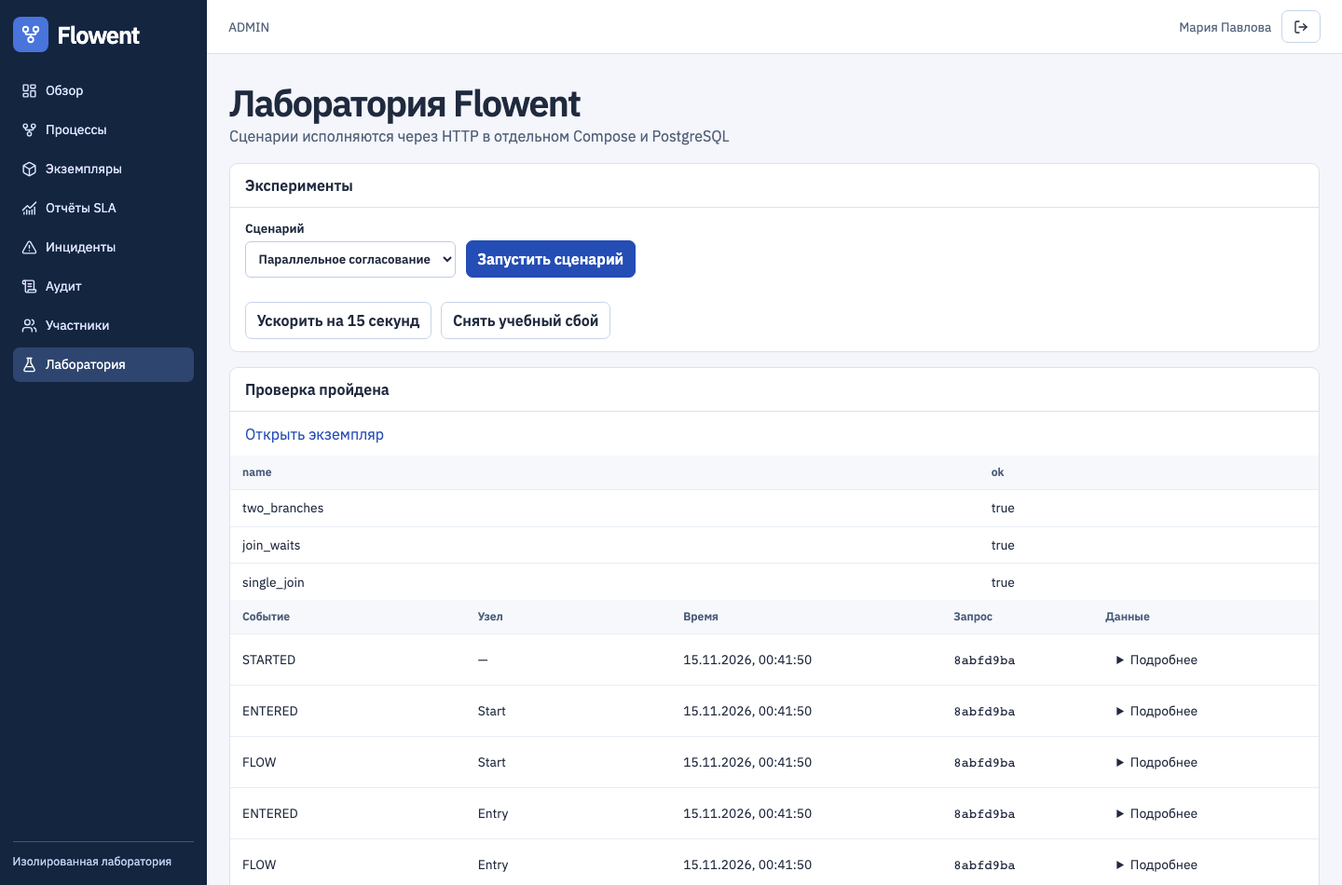
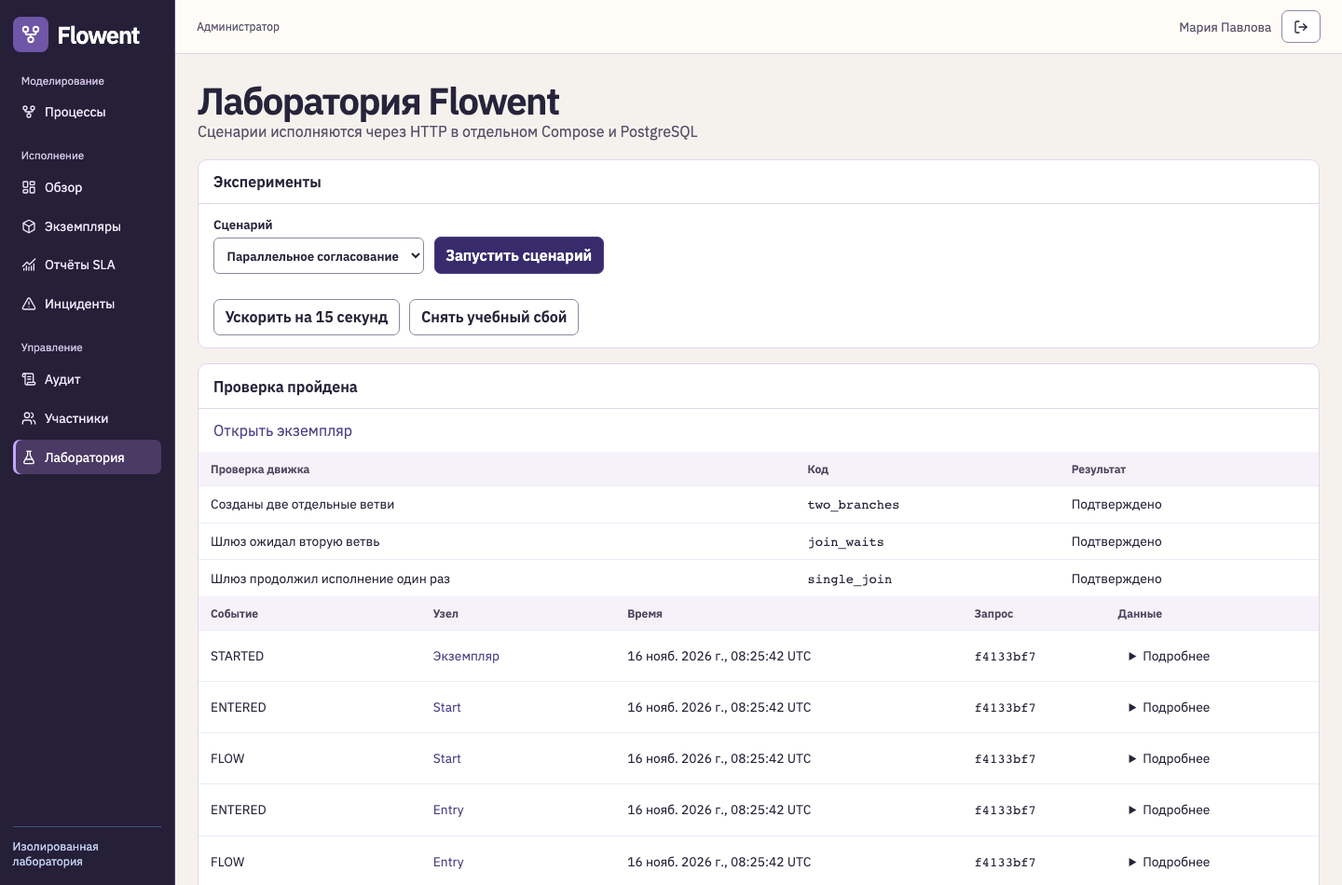
docs: publish Flowent workbench screenshots and acceptance evidence

diff --git a/docs/ux-ui-redesign.md b/docs/ux-ui-redesign.md
@@ -22,3 +22,96 @@
 | F-14 · Lab и аудит | Объяснение сценария, доступ к технической трассе | 14 сценариев, AC-17/22 |
 | F-15 · обновление | Отдельный жизненный цикл BPMN и маркеров | Сохранение viewport и проверка сети, AC-21 |
 | F-16 · терминология | Предметные подписи, доступ к исходным кодам | Визуальная проверка и аналитика |
+
+## Дизайн-система
+
+- Левый тёмный rail отделяет моделирование, исполнение и управление. На узком экране те же разделы доступны через кнопку с `aria-expanded`. Светлые поверхности и границы выстраивают приоритет формы, схемы и истории. IBM Plex Sans поддерживает кириллицу и табличные данные. Идентификаторы выделены моноширинным шрифтом и переносятся внутри доступной ширины.
+- В моделировании главное действие зависит от состояния черновика и роли. Компактные команды управления схемой отделены от сохранения и публикации. Инспектор показывает BPMN ID, тип и настройки исполнения. Управление XML и конфигурацией доступно отдельно.
+- Монитор показывает опубликованную модель, этап ожидания и контекст исполнения перед подробной хронологией. Маркеры состояния продублированы текстом. Поиск, сортировка и страницы основных реестров используют URL. Выбор BPMN-элемента доступен с клавиатуры. `prefers-reduced-motion` отключает декоративные переходы.
+
+## Модель исполнения
+
+Монитор получает XML опубликованной версии по `instance.version` через доступ к самому экземпляру. Публикация новых версий не меняет существующие связи. UUID версии и номер показаны отдельно. Для управленческих ролей переход из опубликованной версии открывает экземпляры именно этой версии.
+
+Для JOIN клиент использует записанную движком активацию `FORKED` и идентификатор кадра из стека токенов. Ожидание одной активации отделено от других. Если фактических данных недостаточно, интерфейс сообщает это. BPMN-таймер показывает параметры модели, план `due_at` и событие срабатывания. Сроки экземпляра и задач показаны отдельно, время подписано UTC. Остаток времени вычисляется по серверным часам стенда и учитывает лабораторный сдвиг.
+
+Постановка сервисной задачи в очередь отображается отдельно от завершённого восстановления. История связывает новый `SERVICE_DONE` с конкретным `job`. Для старых событий, записанных до добавления идентификатора, интерфейс может показать статус задания без точной даты подтверждения. Движок и миграции существующей схемы сохранены, история дополняется метаданными.
+
+## Ограничения
+
+- На телефоне визуальное редактирование канвы выключено. Схема поддерживает инспекцию, текстовый выбор шага, масштаб и команды возврата к полному виду. Пространственное редактирование всем набором инструментов bpmn-js не покрыто клавиатурой.
+- Название элемента можно изменить в инспекторе. Исполняемые формы, маршрутизация, присвоения и таймеры редактируются в существующем режиме XML. Новые типы процессов и условия выполнения выходят за границы поддерживаемого BPMN-подмножества.
+- Результаты Chromium описывают конкретные проверенные маршруты. Полное соответствие WCAG требует отдельной проверки скринридеров, увеличения и независимого браузерного движка.
+
+## Приёмка аудита
+
+Сценарии Chromium используют отдельные демонстрационные БД. В матрице «частично» означает, что существенный путь проверен, а часть комбинаций или средств ввода остаётся за пределами прогона.
+
+| Критерий | Статус | Проверка и границы |
+| --- | --- | --- |
+| AC-01 · Геометрия редактора | Проверено | Тест вычисляет зазоры между геометрией BPMN, палитрой и границами canvas. На 1440 и 1600 px порог 12 px. |
+| AC-02 · Свойства элемента | Частично | Выбор `Solo` из списка и через canvas, изменение имени и ID. Настройки группы, полей и срока извлекаются из BPMN. Для всех видов фигур на 768 px нет отдельного теста. |
+| AC-03 · Актуальность проверки | Проверено | Изменение ID отменяет успех. API отклоняет несовпадающий SHA-256, устаревшую редакцию и синтаксически или семантически недопустимую модель. |
+| AC-04 · Диагностика | Частично | Ошибка неподдерживаемой фигуры проверена через API. Для отсутствующего `Solo` Enter переводит фокус к исходнику. Полная браузерная матрица диагностик XSD и таймеров не пройдена. |
+| AC-05 · XML и черновик | Частично | Реальный Export → Import → Save → Validate → Publish → Execute и защита Back/выхода. Автоматический структурный diff координат для произвольного перемещения не добавлен. |
+| AC-06 · Публикация и история | Проверено | HTTP проверяет роли и редакции. Исторический URL показывает исходный XML. PostgreSQL запрещает изменение опубликованной записи. |
+| AC-07 · Список экземпляров | Проверено | HTTP 200 для нескольких разрешённых выборок и 404 для чужого экземпляра. В браузере запуск создаёт запись и открывает монитор. |
+| AC-08 · Закреплённый BPMN | Проверено | Реальные экземпляры используют старую и новую версии соответственно. Из монитора открывается точный XML, из просмотра версии доступна отфильтрованная выборка. |
+| AC-09 · Параллельные задачи | Проверено | HTTP и браузер видят реальные `Lead` и `Second`. Название, роль, срок, статус и ID берутся из записи задачи. |
+| AC-10 · Выполнение задачи | Частично | Claim, форма, завершение, повтор с тем же ключом и конфликт с новым ключом. Сценарий потери ответа с последующим повтором из двух открытых вкладок не выполнялся. |
+| AC-11 · Split | Проверено | Последовательный и конкурентный HTTP-проходы, ровно один `JOINED`. |
+| AC-12 · Ожидание JOIN | Частично | Chromium сверяет одну из двух ветвей и переход к завершённой синхронизации. Вложенные параллельные активации отдельно в браузере не запускались. |
+| AC-13 · Таймер | Проверено | Живой Timer Catch, `due_at`, `TIMER_FIRED` и сохранность при перезапуске. |
+| AC-14 · SLA и зона | Частично | Лабораторная просрочка, отдельные сроки задачи и экземпляра, UTC. Агрегаты отчёта не пересчитывались независимо по SQL для всех состояний. |
+| AC-15 · Инцидент | Частично | Блокировка и две предшествующие попытки, код, узел, версия и история. Ограничение retry защищено ролью ADMIN, отдельный визуальный проход менеджера не записан. |
+| AC-16 · Восстановление | Частично | Остановка worker подтверждает QUEUED без подтверждения, запуск worker подтверждает RECOVERED. Возврат в повторный отказ при сохраняющемся сбое не пройден отдельным браузерным сценарием. |
+| AC-17 · Хронология | Частично | Событие ведёт к BPMN-узлу, полный Request ID и Actor ID доступны внутри детали. Имена ролей для отдельных исторических действий не денормализованы. |
+| AC-18 · Reflow | Проверено для Chromium | Список шагов, режим просмотра и отсутствие горизонтальной прокрутки документа для проверенных экранов на 1440, 768, 390 и 320 CSS px. |
+| AC-19 · Клавиатура | Частично | Диагностика, Tab/Enter, Escape, выбор шага, возврат по навигации проверены в Chromium. Пространственное редактирование и второй браузерный движок не входили в прогон. |
+| AC-20 · WCAG 2.2 AA | Частично | Семантика, видимый фокус, доступные имена, узкий viewport и reduced motion. Полной ручной проверки VoiceOver, 200% zoom и всех состояний не проводилось. |
+| AC-21 · Регрессии | Проверено | Unit, HTTP и PostgreSQL, сохранность при перезапуске, Lab, сборка и Chromium. Стабильный XML монитора сохраняет экземпляр Viewer при изменении маркеров. |
+| AC-22 · Lab | Проверено | 14 реальных сценариев, серверный ACL, запросы и сверяемые технические результаты. |
+| AC-23 · Контекст ссылок | Частично | Фильтр реестра сохраняется в URL, переходы монитор → версия и журнал → экземпляр. Полная матрица ролей, Forward и повторного входа для каждого маршрута не прогнана. |
+| AC-24 · Состояния интерфейса | Частично | Воспроизведены загрузка, валидация, ревизионный конфликт и пустая выборка. HTTP 500 воспроизводился в исходном состоянии, в финальном браузерном проходе искусственно не внедрялся. |
+
+### Дополнительные критерии из задания
+
+| ID | Результат |
+| --- | --- |
+| A1 | Реестр отвечал HTTP 200, проверено через браузер и PostgreSQL. |
+| A2 | Изменение BPMN ID сбрасывает проверку, покрыто браузерным тестом. |
+| A3 | Запрос из Workbench привязан к SHA-256 черновика. Старый API валидирует точный XML внутри транзакции под блокировкой публикации. Невалидный XML и неверная редакция отклоняются. |
+| A4 | Переход, Browser Back и сохранение требуют решения пользователя. |
+| A5 | Экземпляр читает собственную `instance.version`, проверено HTTP и в Chromium. |
+| A6 | Исторический XML совпадает побайтно, UPDATE публикации запрещён PostgreSQL. |
+| A7 | Статусы монитора сверены с активными токенами и историей. |
+| A8 | Ожидание JOIN выводит незавершённую ветвь и реальную задачу, при недостатке данных показывает нейтральное объяснение. |
+| A9 | Контекст User Task показывает версию, экземпляр, BPMN-узел, назначение, приоритет, дедлайн и входные данные. |
+| A10 | BPMN Timer и SLA разделены в мониторе и тестах. |
+| A11 | Время подписано UTC, сравнение браузерных часовых зон приведено в отчёте проверки. |
+| A12 | QUEUED и RECOVERED проверяются с реальной остановкой worker. |
+| A13 | Все 14 Lab сценариев выполнены по HTTP с PostgreSQL. |
+| A14 | Режим просмотра и текстовый выбор шага работают на 390 и 320 px в Chromium. |
+| A15 | Основные действия проверены клавиатурой в Chromium, см. AC-19. |
+| A16 | BPMN-файлы моделей не менялись. Маршруты, таймеры, параллельное исполнение и роли повторно проверены. |
+| A17 | Команды и результаты проверок указаны ниже. |
+| A18 | Статус финальной сборки доступен в [GitHub Actions](https://github.com/bivaettttt/flowent/actions/workflows/quality.yml). |
+| A19 | Обновлены [README](../README.md), [русская](../README.ru.md) и [английская](../README.en.md) версии. |
+| A20 | Актуальные снимки собраны в [галерее](demo.md). |
+
+## Фактический прогон
+
+| Проверка | Результат |
+| --- | --- |
+| Ruff, Prettier, TypeScript/Vite, OpenAPI и ссылки проекта | Проверки завершились успешно. В сборке Vite остаётся предупреждение о директиве внутри зависимости bpmn-js. |
+| pytest | 15 из 15. |
+| PostgreSQL + HTTP | Прошли три BPMN-модели, параллельные и конкурентные действия, RBAC, идемпотентность, SLA, таймеры, восстановление и снимки версий. |
+| Flowent Lab | 14 из 14 по реальному HTTP и PostgreSQL. |
+| Перезапуск и восстановление | Отложенный таймер сработал один раз после перезапуска API и worker. Ручной retry остался QUEUED с остановленным worker, затем перешёл в RECOVERED с фактическим временем. |
+| Playwright Chromium | 7 из 7. Экспорт, импорт, публикация, исполнение, редактирование и навигация, JOIN, timer, SLA и история восстановления. |
+| Ручной браузерный проход | Playwright MCP на 1440, 768, 390 и 320 px. Отдельный Chromium smoke проверил 9 маршрутов на каждой ширине, 2 px видимого фокуса, клавиатурное раскрытие мобильного меню, reduced motion и отсутствие неожиданных ошибок консоли и HTTP. |
+| Часовые зоны | Chromium в UTC и Asia/Novosibirsk показал один и тот же явно обозначенный UTC timestamp. |
+| Эксплуатационная среда | Исходный Compose-стенд работал для браузерного аудита и первой визуальной проверки. При повторной локальной сборке Docker Desktop не уложился в health-check. Финальные локальные скриншоты и проверки получены на изолированном PostgreSQL 16 с теми же FastAPI и worker. Compose проверяется в GitHub Actions. |
+| Изображения | 27 реальных PNG. Основной снимок BPMN размером 1600 × 900, монитор 1440 × 1060, мобильный просмотр 390 px. |
+
+Источники проверок — [pytest](../tests), [HTTP и PostgreSQL](../scripts/verify.py), [14 лабораторных сценариев](../scripts/verify-lab.py), [остановка процессов и восстановление](../scripts/restart-check), [браузерный workflow](../frontend/e2e/flow.spec.ts) и [регрессии Workbench](../frontend/e2e/workbench.spec.ts).

diff --git a/docs/demo.md b/docs/demo.md
@@ -4,25 +4,42 @@
 
 Затем войдите под `analyst`. В «Процессах» экспортируйте модель расходов, импортируйте XML в новый черновик и измените название задачи на диаграмме. Сохраните и проверьте черновик. Под `manager` опубликуйте версию, под `employee` запустите экземпляр с суммой 12 000 ₽, затем под `approver` завершите согласование. В мониторе проверьте маршрут, таймер и вновь открывшуюся задачу. Вернитесь под `employee` и подтвердите расход. В [тесте Playwright](../frontend/e2e/flow.spec.ts) эти шаги выполняются через интерфейс.
 
-## Captures
+## Screenshots / Скриншоты
 
-![Corporate expense approval in the BPMN editor](../assets/screenshots/expense-editor.png)
+Chromium и реальные ответы изолированного демонстрационного стенда PostgreSQL. Цвета на схеме отражают текущее состояние зафиксированных токенов. Скриншот редактора в полном размере — 1600 × 900 px.
 
-![Execution monitor with an active review](../assets/screenshots/monitor.png)
+[![Редактор BPMN на примере корпоративных расходов](../assets/screenshots/expense-editor.png)](../assets/screenshots/expense-editor.png)
 
-| Экран | Снимок |
+[![Монитор исполнения с ожиданием входа в параллельный шлюз](../assets/screenshots/runtime-viewer.png)](../assets/screenshots/runtime-viewer.png)
+
+| Экран | Полный размер |
 | --- | --- |
-| Обзор рабочей области | [Dashboard](../assets/screenshots/dashboard.png) |
-| Реестр | [Process registry](../assets/screenshots/registry.png) |
-| Редактор | [BPMN designer](../assets/screenshots/expense-editor.png) |
-| Валидация | [Validation](../assets/screenshots/validation.png) |
-| Публикация и история версий | [Versions](../assets/screenshots/versions.png) |
-| Очередь задач | [Task inbox](../assets/screenshots/inbox.png) |
-| Карточка задачи | [Task details](../assets/screenshots/task-details.png) |
-| Динамическая форма | [Dynamic form](../assets/screenshots/task.png) |
-| Монитор исполнения | [Execution monitor](../assets/screenshots/monitor.png) |
-| Отчёт по срокам | [SLA reports](../assets/screenshots/reports.png) |
-| Инциденты | [Incident log](../assets/screenshots/incidents.png) |
-| Лаборатория | [Flowent Lab](../assets/screenshots/lab.png) |
+| Рабочая область моделирования | [PNG](../assets/screenshots/design-workspace.png) |
+| Редактор BPMN | [PNG](../assets/screenshots/expense-editor.png) |
+| Инспектор свойств BPMN | [PNG](../assets/screenshots/properties.png) |
+| Ошибка валидации | [PNG](../assets/screenshots/validation-error.png) |
+| Снимок опубликованной модели | [PNG](../assets/screenshots/published-model.png) |
+| Реестр моделей процессов | [PNG](../assets/screenshots/registry.png) |
+| Реестр экземпляров | [PNG](../assets/screenshots/instance-registry.png) |
+| Model-to-Execution Workbench · обзор разделов | [PNG](../assets/screenshots/dashboard.png) |
+| Runtime BPMN Viewer | [PNG](../assets/screenshots/runtime-viewer.png) |
+| Ожидание Parallel JOIN | [PNG](../assets/screenshots/join-wait.png) |
+| Активная пользовательская задача | [PNG](../assets/screenshots/active-task.png) |
+| Результат выполнения задачи | [PNG](../assets/screenshots/task-completion.png) |
+| Ожидание BPMN-таймера | [PNG](../assets/screenshots/timer-wait.png) |
+| Нарушение SLA | [PNG](../assets/screenshots/sla-breach.png) |
+| Карточка инцидента | [PNG](../assets/screenshots/incident-details.png) |
+| История восстановления | [PNG](../assets/screenshots/recovery-history.png) |
+| Переход из экземпляра к закреплённому XML | [PNG](../assets/screenshots/version-navigation.png) |
+| Мобильный просмотр экземпляра · 390 px | [PNG](../assets/screenshots/mobile-viewer.png) |
+| Flowent Lab | [PNG](../assets/screenshots/lab.png) |
+| Входящие задачи | [PNG](../assets/screenshots/inbox.png) |
+| Контекст задачи | [PNG](../assets/screenshots/task-details.png) |
+| Динамическая форма задачи | [PNG](../assets/screenshots/task.png) |
+| Успешная проверка BPMN | [PNG](../assets/screenshots/validation.png) |
+| История публикаций | [PNG](../assets/screenshots/versions.png) |
+| Монитор тестового согласования | [PNG](../assets/screenshots/monitor.png) |
+| Отчёты SLA | [PNG](../assets/screenshots/reports.png) |
+| Журнал инцидентов | [PNG](../assets/screenshots/incidents.png) |
 
-[Скачать запись реального исполнения](../assets/demo/flowent.mp4). Короткая запись Playwright объединяет прогон от редактирования до завершения экземпляра и проверку параллельного шлюза через Lab. Все кадры получены из локального окружения с синтетическими данными.
+[Скачать запись реального исполнения](../assets/demo/flowent.mp4). Запись относится к версии до редизайна. Она объединяет прогон от редактирования до завершения экземпляра и проверку параллельного шлюза через Lab. Все кадры получены из локального окружения с синтетическими данными.

diff --git a/README.ru.md b/README.ru.md
@@ -43,6 +43,14 @@ scripts/lab up
 
 [Полноразмерный скриншот](assets/screenshots/expense-editor.png)
 
+## Монитор исполнения
+
+Монитор связывает экземпляр с неизменяемой версией BPMN. По схеме и текстовому списку можно выбрать шаг, увидеть активные задачи, ожидание ветвей JOIN, график таймера и факт нарушения SLA. В деталях инцидента постановка повтора в очередь и подтверждённое восстановление показаны отдельными состояниями.
+
+[![Монитор Flowent с активной задачей и схемой исполнения](assets/screenshots/runtime-viewer.png)](assets/screenshots/runtime-viewer.png)
+
+[Галерея интерфейса](docs/demo.md) · [Редизайн и регрессии](docs/ux-ui-redesign.md)
+
 ## Архитектура и API
 
 React и bpmn-js работают с FastAPI через nginx. PostgreSQL хранит определения, версии, экземпляры, токены, задачи, квитанции команд и журнал событий. Отдельный worker выбирает созревшие задания из PostgreSQL и выполняет таймеры, SLA и сервисные задачи. Токен сессии хранится в памяти браузера до перезагрузки страницы.

diff --git a/docs/PROJECT_STATUS.md b/docs/PROJECT_STATUS.md
@@ -7,7 +7,7 @@ Flowent implements a runnable educational approval workspace. Its definition of 
 - 15 pytest unit cases exercised schema and model validation, type-aware routing and typed inputs.
 - The integration suite passed all three BPMN models against PostgreSQL, including role checks, parallel and concurrent transitions, idempotency, timers, SLA, incident recovery and version pinning.
 - The isolated lab verified 14 scenarios over real HTTP and PostgreSQL. Parallel branching and waiting at the join share a scenario. Recovery after a physical restart is verified with `scripts/restart-check`.
-- Both Chromium Playwright cases passed. The first proves that a visual edit survives import, save, publication and execution. The second checks the lab, reports, overview and incidents. Twelve screenshots and a video were captured from these runs.
+- Seven Chromium Playwright cases passed on an isolated PostgreSQL environment. They cover editing and execution, validation and unsaved changes, navigation and pinned versions, branch waiting, timers, SLA, incident history and recovery. The [gallery](demo.md) shows 27 real screenshots. The [redesign record](ux-ui-redesign.md) describes browser checks and acceptance gaps.
 - The normal Compose workspace started with three seeded definitions and rejected lab clock changes with HTTP 403.
 - The Quality workflow runs on pushes and pull requests. The current run history is available in [GitHub Actions](https://github.com/bivaettttt/flowent/actions).
 

diff --git a/README.en.md b/README.en.md
@@ -43,6 +43,14 @@ See the [walkthrough and captures](docs/demo.md).
 
 [Full-size screenshot](assets/screenshots/expense-editor.png)
 
+## Execution monitor
+
+The monitor links each instance to its immutable BPMN version. Select a step on the diagram or from the text list to investigate active tasks, waiting JOIN branches, timers and SLA breaches. Incident details distinguish a queued retry from confirmed recovery.
+
+[![Flowent execution monitor showing an active review and the running model](assets/screenshots/runtime-viewer.png)](assets/screenshots/runtime-viewer.png)
+
+[Interface gallery](docs/demo.md) · [Redesign and regression notes](docs/ux-ui-redesign.md)
+
 ## Architecture and API
 
 React and bpmn-js call FastAPI through nginx. PostgreSQL stores definitions, versions, instances, tokens, human tasks, command receipts, and audit events. A separate worker polls for due jobs and processes timers, SLA deadlines and service tasks. Browser sessions use bearer tokens held in memory for the lifetime of the page.

diff --git a/README.md b/README.md
@@ -8,6 +8,8 @@ Flowent executes a defined subset of BPMN 2.0. Import or edit a model, publish a
 
 [Full-size screenshot · Полноразмерный скриншот](assets/screenshots/expense-editor.png)
 
+[Execution monitor · Монитор исполнения](assets/screenshots/runtime-viewer.png) · [Screenshot gallery · Скриншоты](docs/demo.md) · [UX and regression notes](docs/ux-ui-redesign.md)
+
 Start with `docker compose up --build --wait` and open the [local workspace](http://127.0.0.1:8120).
 
 Запустите той же командой и откройте рабочее пространство. В MVP доступны согласования расходов, ИТ-доступа и командировок, а также изолированная лаборатория исполнения. [Статус и ограничения](docs/PROJECT_STATUS.md)
